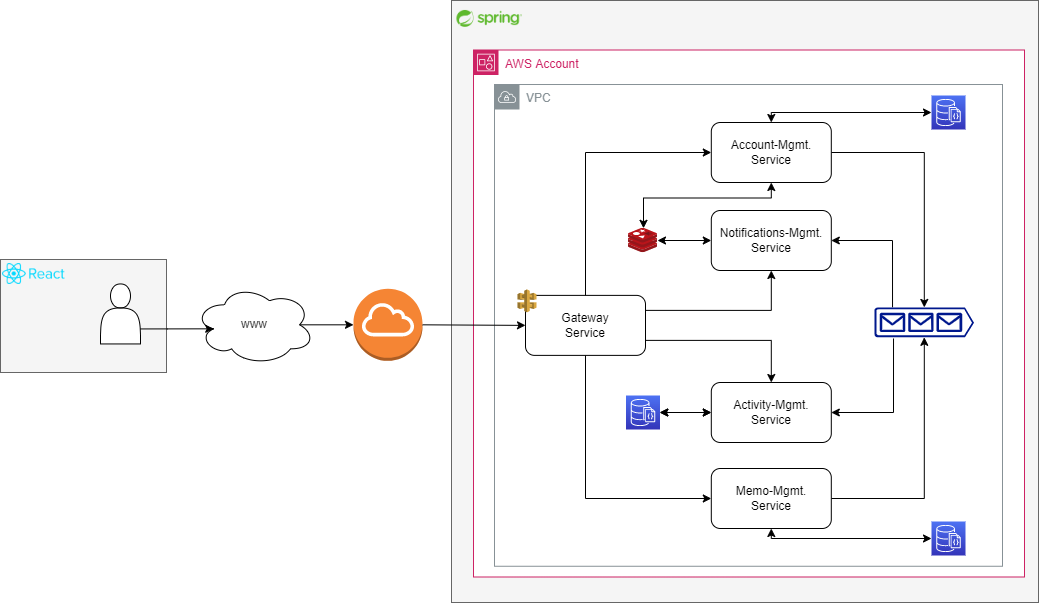
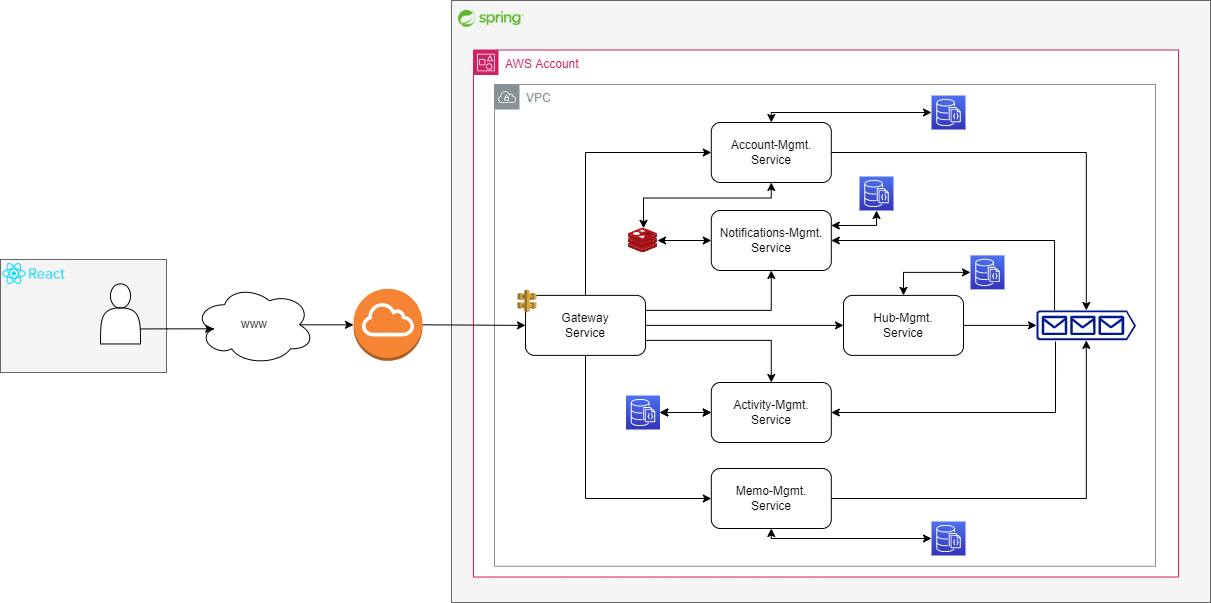
Reviewed project specification and minor change in WS configuration

diff --git a/backend/account-mgmt/account-mgmt/src/main/java/edu/pdae/cs/accountmgmt/config/WebSocketConfiguration.java b/backend/account-mgmt/account-mgmt/src/main/java/edu/pdae/cs/accountmgmt/config/WebSocketConfiguration.java
@@ -23,6 +23,8 @@ public class WebSocketConfiguration implements WebSocketMessageBrokerConfigurer 
     public void configureMessageBroker(MessageBrokerRegistry registry) {
         registry.setApplicationDestinationPrefixes("/ws"); // prefix for controller endpoints
         registry.enableSimpleBroker("/wb"); // prefix for broker endpoints
+        registry.setPreservePublishOrder(true);
+        // TODO: integrate rabbitmq as external broker
     }
 
 }

diff --git a/docs/specification.md b/docs/specification.md
@@ -2,52 +2,37 @@
 
 ## Alapötlet
 
-Tudásmegosztásra kihelyezett közösségi munkaplatform a vállalati/egyéb közösségen belüli gyors információmegosztásra és megőrzésre, ahol bárki könnyedén megoszthatja aktuális gondolatait/felhívásait/közléseit egy adott tematikáról, amelyekre mások reagálhatnak és visszajelzést adhatnak.
+Tudásmegosztásra kihelyezett közösségi munkaplatform a vállalati/egyéb közösségen belüli gyors információmegosztásra és megőrzésre rövid memo-k formájában, ahol bárki könnyedén megoszthatja aktuális gondolatait/felhívásait/közléseit egy adott tematikáról vagy gondolatról, amelyekre mások reagálhatnak és visszajelzést adhatnak.
 
-Kiindulási alap a következő már piacon levő open-source kezdeményezés, amely `Go`-ban került implementálásra [GitHub/usememos](https://github.com/usememos/memos). De akár hasonló valamelyest a Slack és a Teams is.
+Kiindulási alap a következő már "piacon" levő open-source kezdeményezés, amely `Go`-ban került implementálásra [GitHub/usememos](https://github.com/usememos/memos). De akár hasonló valamelyest a Slack és a Teams is.
 
 ## Funkcionalitások
 
-Az alkalmazás elvárt funkcionalitásai:
+### Kollaboratív és stratégiai megfontolások
 
-- Felhasználók képesek memo-kat megosztani különböző láthatósági szintekkel: publikus vagy privát (csak a publikáló felhasználó által megtekinthető),
-- Ezek a memo-k tartalmazhatnak tetszőleges dolgokat akár képeket, emojikat, akár `Markdown`-t, stb (jelenleg scope-n kívül esik, hogy akár fájlfeltöltést is támogassunk).
-- Aznapi vagy bármikori memo-k tetszőleges megtekintése **valós időben**,
-- Keresés memo-k között: cím, szöveg alapján és tag-elési funkcionalitás, prioritási szintek,
-- Online státusz az aktív felhasználókhoz,
-- Aktivitási hőtérkép,
-- Felhasználók reagálhatnak a memo-kra reakciókkal,
-- Értesítési mechanizmus a platformon történő eseményekre, pl. új memo, reakciók saját memo-kra, 
+Az alkalmazás elvárt alapvető funkcionalitásai:
 
-Értelemszerűen autentikációs funkcionalitások is beépítésre kerülnek.
+- Felhasználók képesek saját contókat létrehozni a platformhoz való csatlakozáshoz,
+- Felhasználók képesek közösségekhez, ún. hub-okhoz csatlakozási kéréseket leadni és adminisztrátor felhasználók ezeket elfogadni,
+- Felhasználók képesek saját hub-okat létrehozni,
+- Felhasználók képesek memo-kat megosztani különböző láthatósági szintekkel a hub-on belül: publikus vagy privát (csak a publikáló felhasználó által megtekinthető memo),
+  - Ezek a memo-k tartalmazhatnak tetszőleges dolgokat akár képeket (külső forrásból), emojikat, akár `Markdown`-t, stb. (jelenleg scope-n kívül esik, hogy akár fájlfeltöltést is támogassunk).
+- Aznapi vagy bármikori memo-k tetszőleges megtekintése **valós időben**, alapesetben a felhasználónak kilistázza az éppen aktuális memo-kat prioritásuk és publikálási dátumuk szerint rendezve,
+- Keresési funkcionalitás memo-k között: cím és tag-elési funkcionalitás, prioritási szintek,
+- Folyamatosan real-time karbantartott "online" státusz az aktív felhasználókhoz (hub-on belül és kívül (értelemszerűen a főoldalon)),
+- Aktivitási hőtérkép az aktuális hónapra vetítve informatív jelleggel,
+- Felhasználók reagálhatnak, visszajelzést adhatnak a memo-kra reakciókkal és teljesítési kitűzőkkel,
+- Értesítési mechanizmus a platformon történő eseményekre, pl. új memo, reakciók saját memo-kra, teljesítés, stb.
 
-Kiegészítő funkcionalitások:
+### Kiegészítő funkcionalitások
 
-- Alkalmazás cluster automatizált létrehozása (`Terraform`),
-- Szolgáltatás-skálázhatóság (`K8S és Helm`),
+Kiegészítő, technológiai (az alap use-case-n kívül eső) funkcionalitások:
+
+- Kubernetes kitelepítés (`K8S és Helm`),
+- Alkalmazás cluster (K8S cluster) automatizált létrehozása (`Terraform`),
 - Cloud platform kitelepítés (`DigitalOcean`),
-- `MongoDB és Redis` skálázható (és redundáns) kitelepítései,
-- *Opcionális*: biztonsági réteg.
-
-### Technológia összefoglaló
-
-Front-end összefoglaló:
-
-- Nyelv: `tsx`,
-- Keretrendszer: `Next.js`,
-- Komponenskönyvtár: `MaterialUI`.
-
-Back-end összefoglaló:
-
-- NoSQL adatbázis: `MongoDB`,
-- Cache és PubSub megoldás: `Redis`
-- Általános back-end keretrendszer: `Spring Boot` (micro-service-k implementálására, pl. Spring JPA, Spring Repository, Spring WebFlux, háromrétegű architektúra),
-- Üzenet broker (in-cluster és nem külsős): `Kafka` vagy `RabbitMQ` (nekem több tapasztalatom van az utóbbival),
-- Infrastruktúra és DevOps: `Terraform` (K8S cluster létrehozása), `K8S és Helm`.
-
-Kiegészítő technológiák: `WebSocket`, `PubSub`, `Reactive Gateway`.
-
-ℹ **Megjegyzés**: opcionális a `Redis`-t, amennyiben nincs szükség nagy mennyiségű cachelési kapacitásra kiválthatja a `Kafka` is funkcionalitását tekintve valamilyen üzenetsoros megoldással kiváltva, azonban egyszerűbb lenne a `Redis`.
+- `MongoDB és Apache Kafka (és/vagy RabbitMQ)` skálázható (és redundáns) kitelepítései,
+- `Redis`, mint cachelési megoldás skálázható kitelepítése.
 
 ## Komponensdiagram
 
@@ -57,38 +42,66 @@ Kiegészítő technológiák: `WebSocket`, `PubSub`, `Reactive Gateway`.
 
 1. Gateway-service
 
-> Az szolgáltatási (API) réteg egyetlen belépési pontja, minden platformbéli interakció ezen keresztül érhető el, általános `routing` szerepkör;  
-> Kiegészítő a valósidejű megvalósításhoz, hogy a különböző csatorna-routing-ot is ez a service fogja végezni (jön egy kérés egy adott `WebSocket` csatorna eléréséhez, akkor ez fogja továbbítani a releváns service-hez). Pl. egy ilyen funkcionalitás az online státusz: Redis-ben lehet tárolni az aktív felhasználókat (`Account Mgmt.` által kezelve), amint változik ez a lista (aminek minden bemenetének van egy adott aktivitási lejártja) az üzenet publikálásra kerül a releváns `WebSocket`-re ahhoz, hogy a felhasználó megjelenített aktív felhasználó listája frissüljön.
+> A szolgáltatási réteg egyetlen belépési pontja, minden platformbéli interakció ezen keresztül érhető el, általános `routing` szerepkör; közvetíti a bejövő kérést a megfelelő belső micro-service-hez, miközben a felhasználónak egyetlen külső pontot definiálunk;
+> Kiegészítő a valós idejű megvalósításhoz, hogy a különböző csatorna-routing-ot is ez a service fogja végezni (jön egy kérés egy adott `WebSocket` csatorna eléréséhez, akkor ez fogja továbbítani a releváns service-hez). Pl. egy ilyen funkcionalitás az online státusz: Redis-ben lehet tárolni az aktív felhasználókat (`Account Mgmt.` által kezelve), amint változik ez a lista (aminek minden bemenetének van egy adott aktivitási lejártja) az üzenet publikálásra kerül a releváns `WebSocket`-re ahhoz, hogy a felhasználó megjelenített aktív felhasználó listája frissüljön valós időben;  
+> További funkcionalitás a biztonsági réteg megvalósítása, hiszen ez a micro-service nem fogja a védett útvonalakra beengedni a kérést, amennyiben nem rendelkezik a megfelelő authorizációs token-nel.
 
 2. Account-Mgmt. service
 
-> Feladata felhasználók kezelése, beleértve az autentikációt és az aktív felhasználói lista kezelését.
-> Karbantartja a listát az aktív felhasználókkal, folyamatosan publish-olva üzeneteket a megfelelő csatornákra.
+> Feladata felhasználók kezelése és azok létrehozása, valamint kiállítja a megfelelő authorizációs tokeneket,  
+> Karbantartja a listát az aktív felhasználókkal, folyamatosan publish-olva üzeneteket a megfelelő csatornákra,  
+> Felhasználói jogkörök kezelése.
 
 3. Memo-Mgmt. service
 
-> Feladata a memo-k kezelése, beleértve azok létrehozását, keresését, reakciók menedzsmentjét, stb.
+> Feladata a memo-k kezelése, beleértve azok létrehozását, köztük való keresés megvalósítása, kilistázása, stb.
 
 4. Activity-Mgmt. service
 
 > Az aktivitási hőtérkép létrehozásához feladata, hogy "elfogyassza" a platformon történő interakciókat.
-> Akár feladata összevonható az `Account-Mgmt.`-el.
+> Akár feladata összevonható az `Notifications-Mgmt.`-el.
 
 5. Notifications service
 
-> Értesítések kezelése.
+> Értesítések kezelése, a platformon történő érdekes események közlése az éppen aktív felhasználóknak,  
+> Események tárolása, amennyiben a felhasználók épp nem aktívak.  
+
+6. Hub-Mgmt. service
+
+> Feladata a hub-ok kezelése, beleértve azok létrehozását, a csatlakozási kérelmek menedzsmentje, kilistázása, stb.
+
+Megtörténhet, hogy az `Activity-Mgmt.` és `Notifications` szolgáltatásait összevonom egyetlen micro-service-ben `Activity-Notifications-Mgmt.` alatt, másképp önmagukban feltételezhetően túl egyszerűek lennének.
+
+### Rövid technológia összefoglaló
+
+Front-end összefoglaló:
+
+- Nyelv: `Typescript`,
+- Keretrendszer: `Next.js`,
+- Komponenskönyvtár: `MaterialUI`.
+
+Back-end összefoglaló:
+
+- NoSQL adatbázis: `MongoDB`,
+- Cache megoldás: `Redis`
+- Általános back-end keretrendszer: `Spring Boot` (micro-service-k implementálására, pl. Spring JPA, Spring Repository, Spring WebFlux, háromrétegű architektúra),
+- Üzenet broker (in-cluster): `Kafka (és/vagy RabbitMQ)`,
+- Infrastruktúra és DevOps: `Terraform` (K8S cluster létrehozása), `K8S és Helm`.
+
+Kiegészítő egyéb technológiák: `WebSocket és STOMP`, `Spring Reactive Gateway`.
 
 ### Üzenetsor és valósidejűség
 
-Több platformbéli folyamat is van amikor előtérbe kerül a valósidejűség és az üzenetsorok alkalmazása, de elmondhatom azt, hogy egyaránt jelen lesznek szinkron és aszinkron kommunikációs flow-k.
+Több platformbéli folyamat is van amikor előtérbe kerül a valósidejűség és az üzenetsorok alkalmazása az aszinkron kommunikáció alkalmazására, de elmondhatom azt, hogy egyaránt jelen lesznek szinkron és aszinkron kommunikációs flow-k is.
 
 Tipikus szinkron folyamatok:
 
 - autentikáció, felhasználói bejelentkezések, stb., hiszen ekkor szükségünk a válaszra;
-- memo-k létrehozása, reakciók, keresés, stb.
+- memo-k létrehozása, reakciók közlése, listázás, stb.;
+- hub-k létrehozása, csatlakozási kérelmek, azok elfogadása;
 
 Aszinkron flow-k:
 
-- aktív felhasználók: `WebSocket` alapú megvalósítása, hogy minden aktív és bejelentkezett felhasználó folyamatos képet kapjon az éppen jelenlevő felhasználókról; elképzelése, hogy mivel minden platformbéli művelet keresztül megy a `Gateway`-n, ezért az akár publikált egy gyors üzenetet az üzenetsorra, amit kiolvas az `Account Mgmt.` és karbantartja az éppen aktív felhasználók listáját (értsd. tovább publish-olja a megfelelő `WebSocket`-re).
-- értesítések: minden platformbéli jelentős tevékenység értesítés formájában közlésre kerül; elképzelés, hogy az ilyen események a releváns service által közlésre kerülnek egy üzenetsorban, és mivel ezek közlése egy aszinkron folyamat ezért kiolvassa a `Notifications svc.` és ugyancsak közli a megfelelő `WebSocket`-re a felhasználóknak. Minden értesítés minden felhasználóhoz megérkezik, aki éppen nem aktív következő bejelentkezéskor kapja azt meg.
-- aktivitási hőtérkép: minden platformbéli tevékenység (memo-kkal kapcsolatos) rögzítésre kerül, hogy egy általános hőtérképet jelenítsünk meg az aktivitásról (értsd. GitLab vagy GitHub-szerűen); amikor ilyen tevékenység merül fel a releváns service közli azt az üzenetsorban, amit kiolvas az `Activity Mgmt.` és karbantartja ezt a hőtérképet (értelemszerűen ennek is meglesz a megfelelő csatornája a felhasználóknak).
+- Aktív felhasználók: `WebSocket` alapú megvalósítása, hogy minden aktív és bejelentkezett felhasználó folyamatos képet kapjon az éppen jelenlevő felhasználókról (hub-on belül és kívül).
+- Értesítések: minden platformbéli érdekes esemény értesítés formájában közlésre kerül az éppen aktív és érintett felhasználóknak; elképzelés, hogy az ilyen események a releváns service által közlésre kerülnek egy üzenetsorban, és mivel ezek közlése egy aszinkron folyamat ezért kiolvassa a `Notifications svc.` és ugyancsak közli a megfelelő `WebSocket`-re a felhasználóknak. Minden értesítés minden érintett aktív felhasználóhoz megérkezik, aki éppen nem aktív következő bejelentkezéskor kapja azt meg.
+- Aktivitási hőtérkép: minden platformbéli tevékenység (memo-kkal kapcsolatos) rögzítésre kerül, hogy egy általános hőtérképet jelenítsünk meg az aktivitásról (értsd. GitLab vagy GitHub-szerűen); amikor ilyen tevékenység merül fel a releváns service közli azt az üzenetsorban, amit kiolvas az `Activity Mgmt.` és karbantartja ezt a hőtérképet (értelemszerűen ennek is meglesz a megfelelő csatornája a felhasználóknak).
